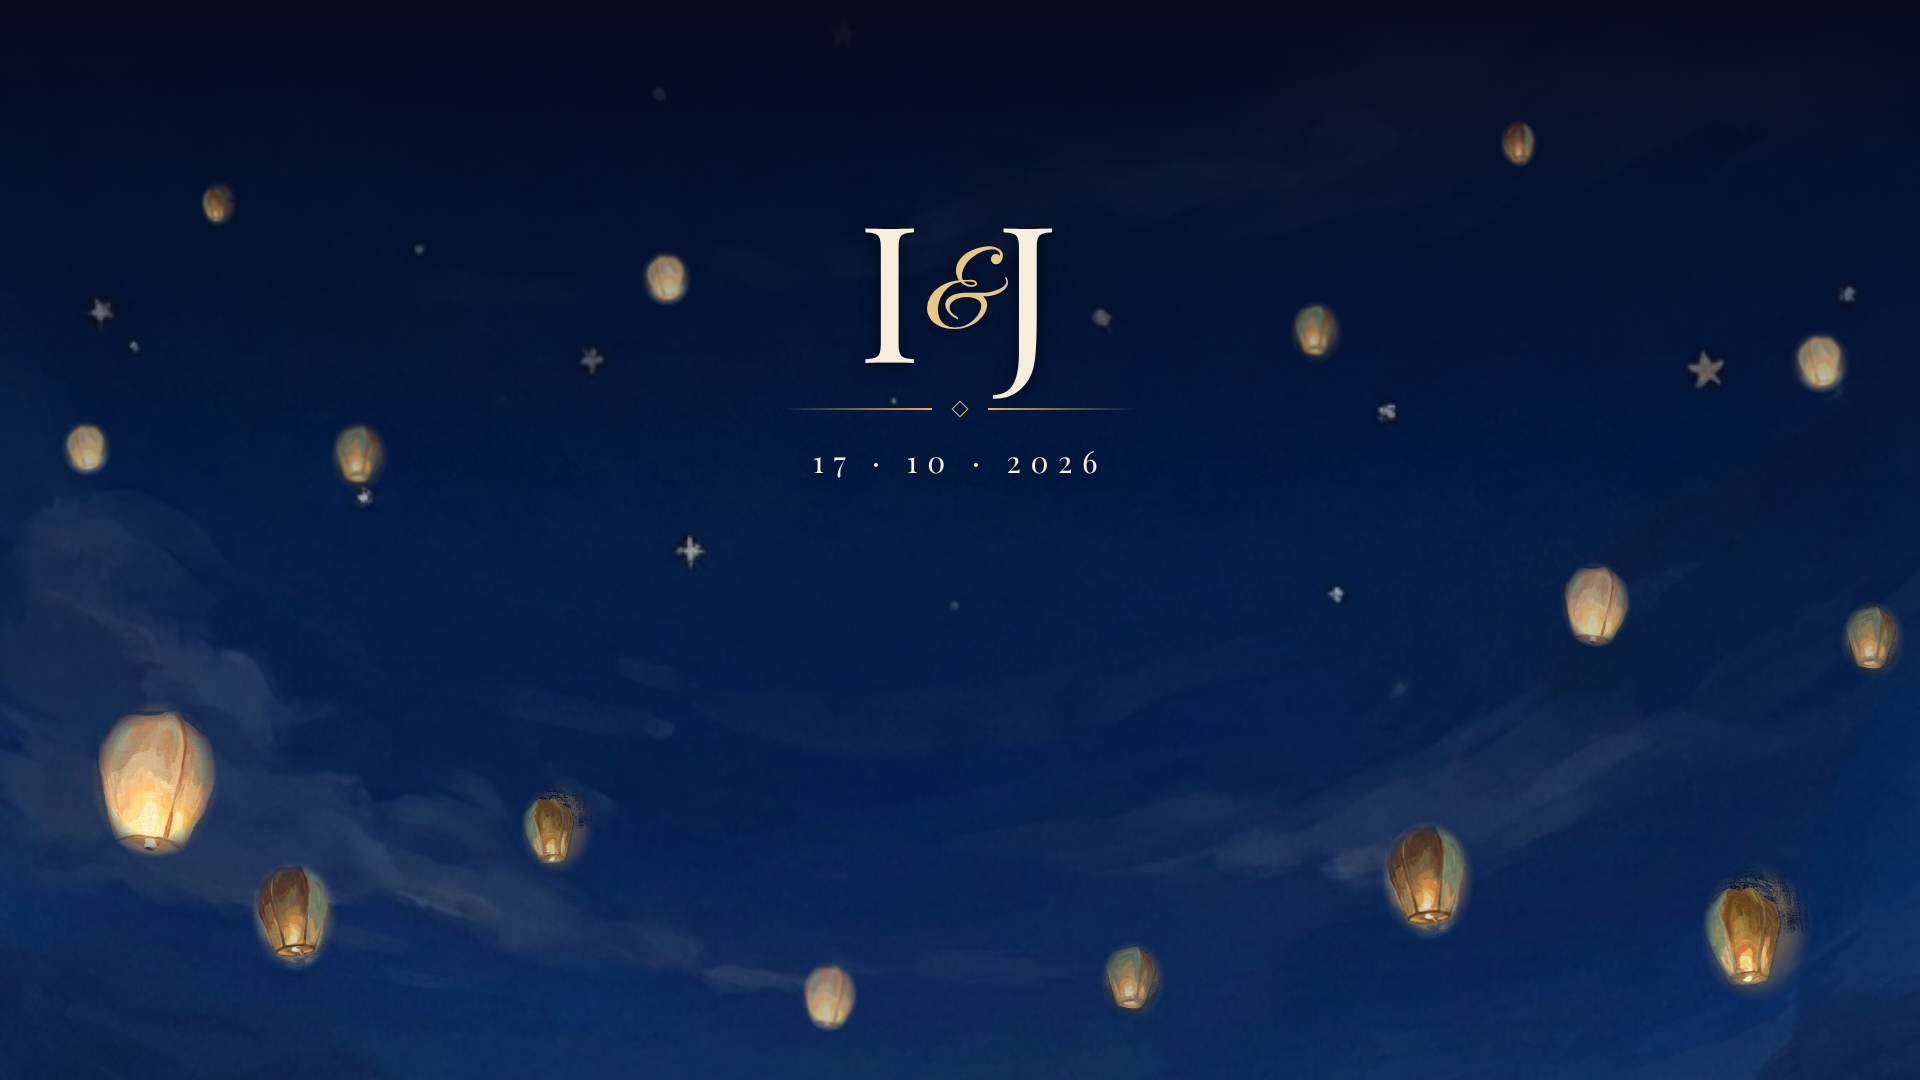
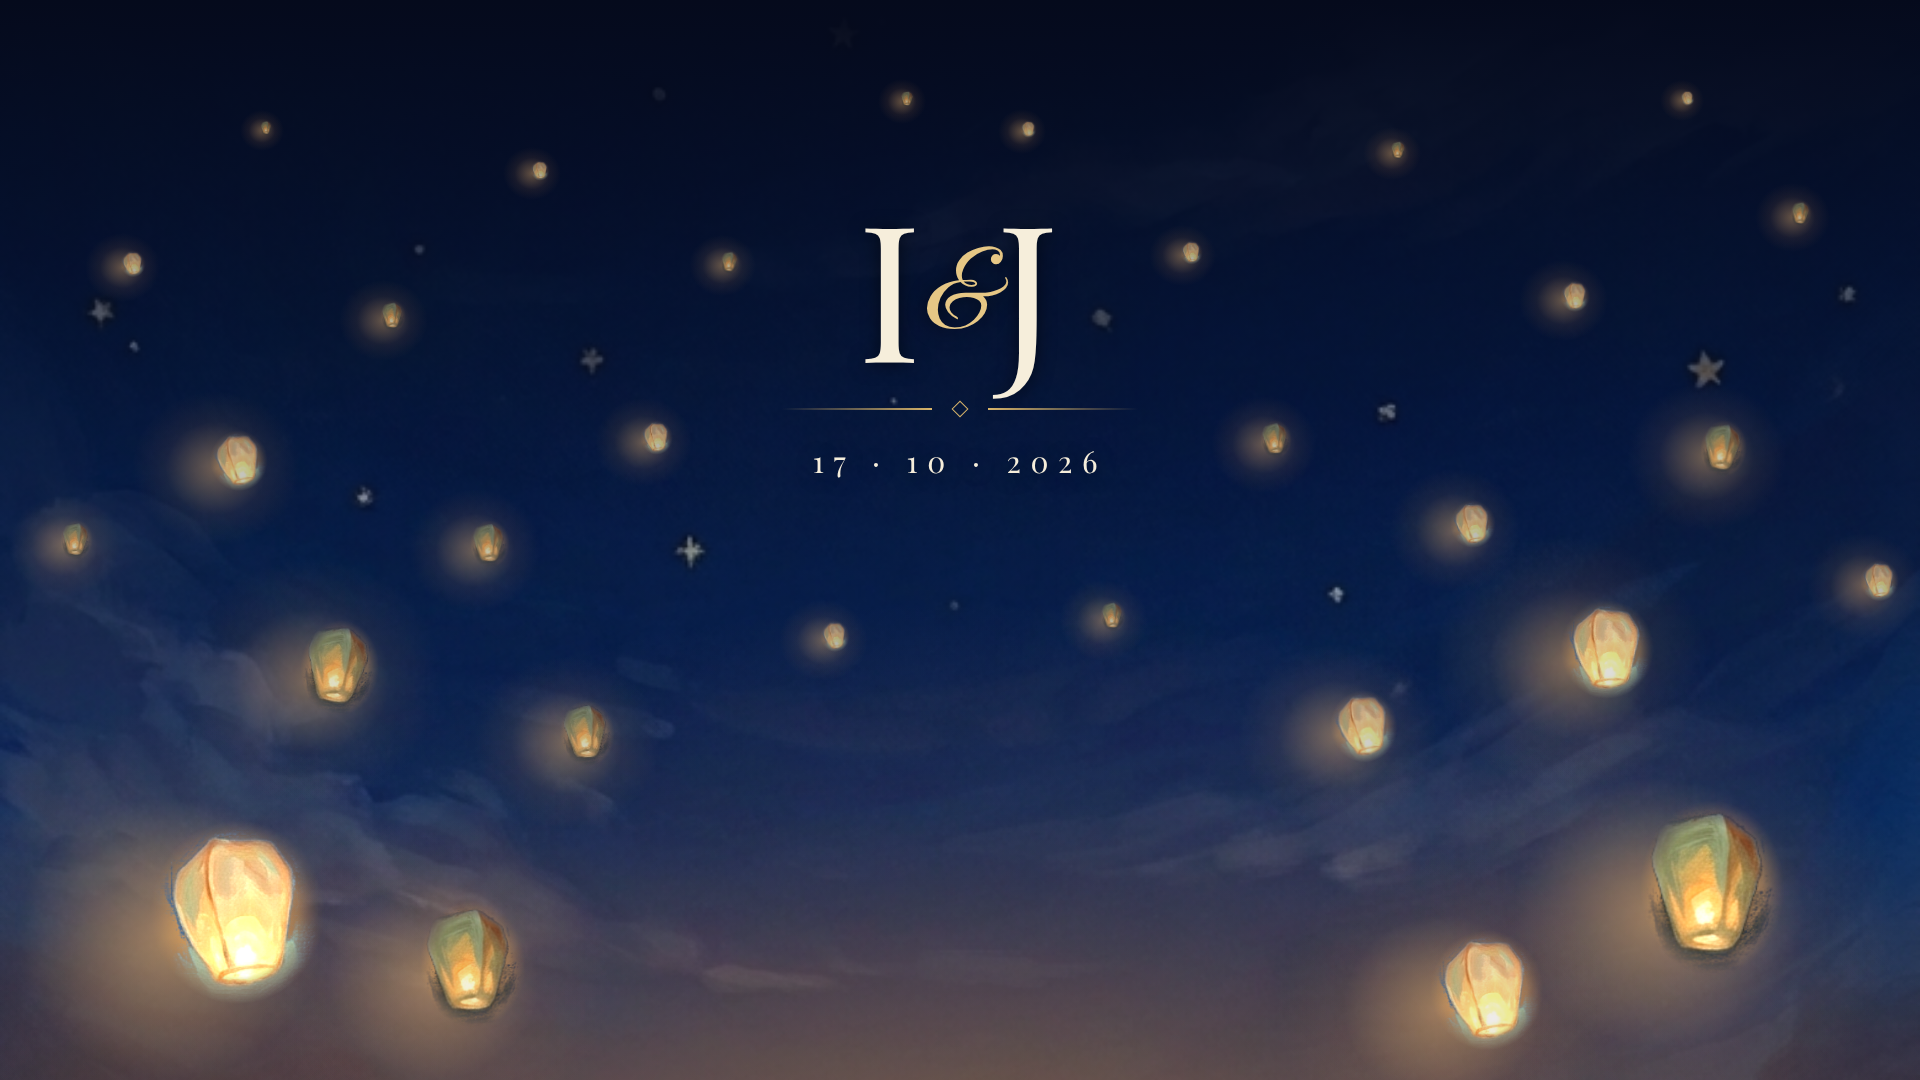
Écran du Palacio : mur de bougainvilliers de Tanger, lanternes plus poétiques (profondeur, halo, lueur d'horizon)
Claude-Session: https://claude.ai/code/session_01Qv8LPbr9A3wfyyg7dTHTn1

diff --git a/ecran-palacio/3-fin.html b/ecran-palacio/3-fin.html
@@ -1,15 +1,26 @@
 <!doctype html><meta charset="utf-8"><link rel="stylesheet" href="style.css">
 <div class="s">
  <div class="sky"></div>
- <div style="position:absolute;inset:0;background:linear-gradient(#060b20 0%,rgba(6,11,32,.35) 45%,rgba(30,40,80,.1) 100%)"></div>
+ <div style="position:absolute;inset:0;background:linear-gradient(#050a1c 0%,rgba(8,14,40,.55) 40%,rgba(40,30,60,.15) 75%,rgba(120,70,40,.35) 100%)"></div>
+ <div style="position:absolute;left:-10%;right:-10%;bottom:-30%;height:75%;background:radial-gradient(ellipse at 50% 100%,rgba(255,170,90,.45),rgba(255,150,80,.12) 45%,transparent 70%)"></div>
  <div id="L"></div>
  <div class="mono" style="color:#f6eedb;text-shadow:0 2px 18px rgba(0,0,0,.55)"><div class="ij">I<em style="color:#e6c785">&amp;</em>J</div>
   <div class="orn" style="margin-top:24px"><i></i><b></b><i></i></div>
   <div class="d">17 · 10 · 2026</div></div>
 </div>
 <script>
-const P=[[90,700,1.0,2],[250,860,.7,5],[330,420,.45,1],[520,780,.6,3],[640,250,.35,4],[1290,300,.4,1],[1380,820,.75,5],[1560,560,.55,2],[1700,860,.9,3],[1790,330,.4,4],[200,180,.3,3],[1100,940,.5,1],[800,960,.45,2],[1500,120,.3,5],[60,420,.35,4],[1840,600,.5,1]];
+// lanternes : de grosses proches en bas sur les côtés, de plus en plus petites et lointaines en montant ; le centre reste dégagé
+const P=[[150,820,1.15,4],[420,900,.8,1],[1640,800,1.1,1],[1430,930,.75,4],[300,620,.6,1],[1560,600,.62,4],
+[560,700,.42,1],[1330,690,.45,4],[210,430,.38,4],[1700,420,.36,1],[470,520,.3,1],[1450,500,.3,4],
+[640,420,.22,4],[1260,420,.24,1],[380,300,.2,1],[1560,280,.2,4],[120,250,.17,4],[1790,200,.17,1],
+[720,250,.15,1],[1180,240,.15,4],[530,160,.13,4],[1390,140,.13,1],[900,90,.11,1],[1020,120,.11,4],
+[260,120,.1,1],[1680,90,.1,4],[60,520,.25,1],[1860,560,.26,4],[820,620,.2,4],[1100,600,.2,1]];
 const L=document.getElementById('L');
-for(const [x,y,s,i] of P){const im=new Image();im.src='../assets/nuit_lantern_'+i+'.png';
- im.style.cssText=`position:absolute;left:${x}px;top:${y}px;height:${170*s}px;opacity:${.55+.45*s};-webkit-mask-image:radial-gradient(ellipse 50% 47% at 50% 47%,#000 70%,transparent 100%);filter:drop-shadow(0 0 ${30*s}px rgba(255,180,80,.8)) blur(${s<.5?1:0}px)`;L.appendChild(im);}
+for(const [x,y,s,i] of P){
+ const g=document.createElement('div');const h=170*s;
+ g.style.cssText=`position:absolute;left:${x-h*1.2}px;top:${y-h*.6}px;width:${h*2.6}px;height:${h*2.4}px;border-radius:50%;background:radial-gradient(closest-side,rgba(255,190,110,${.35+.2*s}),rgba(255,160,80,.08) 60%,transparent);`;
+ L.appendChild(g);
+ const im=new Image();im.src='../assets/nuit_lantern_'+i+'.png';
+ im.style.cssText=`position:absolute;left:${x}px;top:${y}px;height:${h}px;opacity:${Math.min(1,.5+.5*s)};-webkit-mask-image:radial-gradient(ellipse 50% 47% at 50% 47%,#000 70%,transparent 100%);filter:brightness(${1.05+.15*s}) saturate(1.1) blur(${s<.2?.6:0}px) drop-shadow(0 0 ${12+20*s}px rgba(255,180,90,.9));transform:rotate(${(x%7-3)*1.5}deg)`;
+ L.appendChild(im);}
 </script>

diff --git a/ecran-palacio/1-accueil.html b/ecran-palacio/1-accueil.html
@@ -1,6 +1,5 @@
-<!doctype html><meta charset="utf-8"><link rel="stylesheet" href="style.css"><div class="s" style="background:url(../photobooth/tanger-photo/3-terrasse-nuit.jpg) center 12%/cover">
- <div style="position:absolute;left:0;right:0;top:0;height:55%;background:linear-gradient(rgba(10,25,60,.35),transparent)"></div>
- <div class="mono" style="color:#f6eedb;text-shadow:0 2px 18px rgba(0,0,0,.55)"><div class="ij">I<em style="color:#e6c785">&amp;</em>J</div>
-  <div class="orn" style="margin-top:24px"><i></i><b></b><i></i></div>
+<!doctype html><meta charset="utf-8"><link rel="stylesheet" href="style.css"><div class="s" style="background:url(../photobooth/tanger-simple/3-mur-bougainvilliers.jpg) center top/1920px 1920px">
+ <div class="mono" style="color:#1e2f5c"><div class="ij">I<em style="color:#8a6430">&amp;</em>J</div>
+  <div class="orn" style="margin-top:24px"><i style="background:linear-gradient(90deg,transparent,#8a6430)"></i><b style="border-color:#8a6430"></b><i style="background:linear-gradient(90deg,transparent,#8a6430)"></i></div>
   <div class="d">17 · 10 · 2026</div></div>
 </div>
